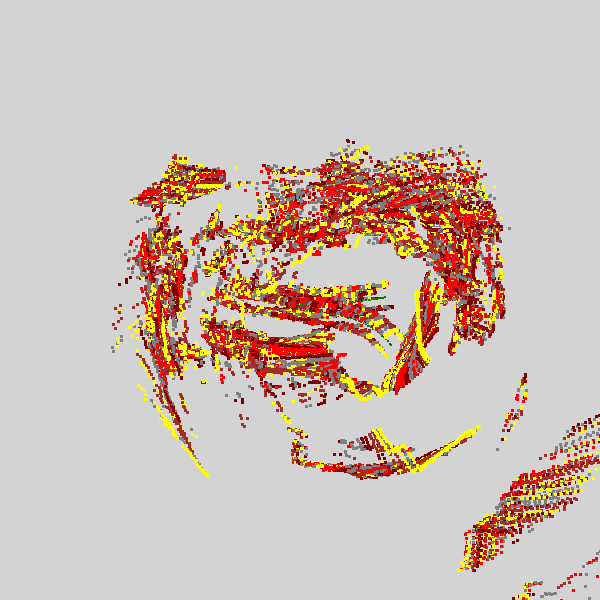
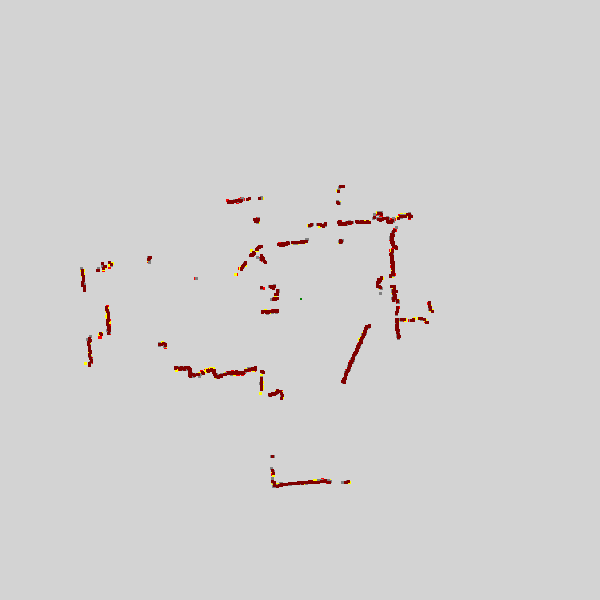
Motion error in Motion.py solved. New potentiometer for axle. Lidar_LD19 skip dist<30cm

diff --git a/Whegs.py b/Whegs.py
@@ -81,10 +81,10 @@ class Whegs:
                 self.scanner.scanner_reset()
                 #Logging Table View8
                 
-                with open("logging_tabulate.txt", "w") as logging:
+                with open("logging_tabulate.log", "w") as logging:
                     print(tabulate(logging_tabulate, headers="keys", tablefmt="github"), file = logging)
                     logging.flush()
-                sleep(1)
+                sleep(5)
             
             if self.last_action == "stop":
                 steer = 0
@@ -107,7 +107,7 @@ class Whegs:
             if steer == 0 and speed == 0:
                 motion_error = False
             
-            if abs(self.kompass.get_pitch()) > 40 or abs(self.kompass.get_roll()) > 40:
+            if abs(self.kompass.get_pitch()) > 30 or abs(self.kompass.get_roll()) > 30:
                 steer = 0
                 speed = 0
                 motion_error = True
@@ -122,11 +122,6 @@ class Whegs:
                 speed = 0
                 motion_error = True
                 print("CURRENT Error Stopping : " + str(current) + str("mA"))
-
-            if self.scanner.get_min_dist() < 60:
-                self.distance = "TO NARROW MOVE BACKWARTS !"
-            else:
-                self.distance = None
 
             #Store the Motor data for all 4 motors
             #self.motorDataLogger.store(current)
@@ -158,16 +153,16 @@ class Whegs:
             #x_summ += x_scan
             #y_summ += y_scan
             #pose_summ += pose_scan
-
+            
             front, left , right = self.bug.analyse(scan_data)
-            #steer, speed_korr = self.bug.modus(front, left, right)
+            steer, speed_korr = self.bug.modus(front, left, right)
             #steer, speed_korr = self.bug.modus_sinus(front, left, right, heading)
             print("Heading:" +str(heading))
-            #print("Left : " + str(self.bug.left) + "  Dist: " + str(self.bug.left_min))
-            #print("Front: " + str(self.bug.front)+ "  Dist: " + str(self.bug.front_min))
-            #print("Right: " + str(self.bug.right)+ "  Dist: " + str(self.bug.right_min))
+            print("Left : " + str(self.bug.left) + "  Dist: " + str(self.bug.left_min))
+            print("Front: " + str(self.bug.front)+ "  Dist: " + str(self.bug.front_min))
+            print("Right: " + str(self.bug.right)+ "  Dist: " + str(self.bug.right_min))
             #print("Current: " + str(current))
-            print("Steer: " + str(steer) + "  Speed_korr: " + str(speed))
+            print("Steer: " + str(steer) + "  Speed: " + str(speed))
             #print("Position: " +str(x) + " " + str(y) + " " + str(pose)) 
             #print("Position: " +str(x_scan) + " " + str(y_scan) + " " + str(pose_scan))
             #print("Summ: " +str(x_summ) + " " + str(y_summ) + " " + str(pose_summ))
@@ -188,14 +183,15 @@ class Whegs:
 
             #Logging with tabulate
             current_time = strftime("%H:%M:%S", localtime())
-            logging_tabulate.append(OrderedDict([("Time",current_time),("steer",steer), ("speed", speed), ("X",x),("Y",y), 
-                                                 ("Pose",pose), ("Axle-Pos",rear_axle_position), ("Current",current)]))
-
+            logging_tabulate.append(OrderedDict([("Time",current_time),
+                                                 ("Steer",steer), ("Speed", speed), 
+                                                 ("Front", front), ("Left", left), ("Right", right),
+                                                 ("X",x),("Y",y), ("Pose",pose), 
+                                                 ("Axle-Pos",rear_axle_position), ("Current",current)]))
 
             print (colored('*** Loop time = ' + str(round(time() - loop_time,2)), 'red', attrs=["bold"]))
             loop_time = time()
             sleep(0.05)
-            print()
-            #print('\033[6F\033[2k', end='')
 
+            #print('\033[9F\033[2k', end='')
             #os.system('clear')

diff --git a/Bug.py b/Bug.py
@@ -2,7 +2,7 @@
 
 class Bug():
     def __init__(self):
-        self.MIN_DIST = 150
+        self.MIN_DIST = 80
         self.front = "free"
         self.left  = "free"
         self.right = "free"
@@ -35,6 +35,7 @@ class Bug():
        
         for point in last_scan:
             pitch, heading, dist = point
+            
             #Straight +/-15° @ dist = 90 -> 50cm free-space
             if (350 < heading < 360) or (0 < heading < 10) :
                 if dist < self.MIN_DIST:
@@ -42,13 +43,13 @@ class Bug():
                     self.speed = self.LOW_SPEED
                     self.front_min = 0.1 ##min(self.front_min, dist)           
             #Left           
-            if  (310 < heading) and (heading < 350):
+            if  (270 < heading) and (heading < 315):
                 if dist < self.MIN_DIST:
                     self.left = "blocked"
                     self.speed = self.LOW_SPEED
                     self.left_min = min(self.left_min, dist)
             #Right
-            if (10 < heading) and (heading < 40):
+            if (45 < heading) and (heading < 90):
                 if dist < self.MIN_DIST:
                     self.right = "blocked"
                     self.speed = self.LOW_SPEED
@@ -88,7 +89,7 @@ class Bug():
         steer = 0
 
         if front == "free" and left == "blocked" and right == "blocked":
-            steer = (self.right_min - self.left_min) * 0.05
+            steer = 1           #(self.right_min - self.left_min) * 0.05
         elif front == "blocked" and left == "free" and right == "free":
             steer = 1
         elif front == "blocked"  and left == "blocked":
@@ -108,7 +109,7 @@ if __name__ == "__main__":
 
     bug = Bug()
 
-    scan_data = [[[0, -90.0, 100], [0, 0.0, 59], [0, 18.2, 59]]]
+    scan_data = [[0, -90.0, 100], [0, 0.0, 59], [0, 18.2, 59]]
     front, left, right = bug.analyse(scan_data)
     steer = bug.modus(front, left, right)
     print(bug.left)

diff --git a/Motion.py b/Motion.py
@@ -1,14 +1,13 @@
 #! python
 # -*- coding: utf-8 -*-
 # Program steuert Roboter Motion via 4xMotorController
-# Steer Links = +1 Rechts = -1
-# Speed Vor = +1 Retour = -1
+# Steer: Rechts = +1 Links =  -1
+# Speed: Vor =    +1 Retour = -1
+# rear_axle_position Left = 160 Mid = 0 Right = (-160)s
 
 from MotorController import *
 from time import *
 from termcolor import colored
-
-
 
 class Motion():
     def __init__(self):
@@ -53,9 +52,8 @@ class Motion():
             print("Error parsing speed Value")
 
         axle_differenz = rear_axle_setpoint - rear_axle_position
-        print("Axle-diff: " + str(axle_differenz))
 
-        P_VALUE = 250
+        P_VALUE = 200
 
         motorspeed_HL, direktion_HL = self.settings_HL
         motorspeed_HR, direktion_HR = self.settings_HR
@@ -66,6 +64,9 @@ class Motion():
         else:
             motorspeed_HL -= axle_differenz / P_VALUE
             motorspeed_HR += axle_differenz / P_VALUE
+
+        motorspeed_HL = max(min(5.0, motorspeed_HL), 0)
+        motorspeed_HR = max(min(5.0, motorspeed_HR), 0)
 
         self.settings_HL = motorspeed_HL, direktion_HL
         self.settings_HR = motorspeed_HR, direktion_HR
@@ -79,7 +80,7 @@ class Motion():
         speed, direction = settings
         speed = speed  * self.speed
         speed  = max(min(1.0, speed), -1)
-        #print("Motors-Values: ", speed, direction)
+            #print("Motors-Values: ", speed, direction)
         if self.speed < 0:
             direction = direction * (-1)
         motor.set_motor(speed, direction)

diff --git a/MotorController.py b/MotorController.py
@@ -103,21 +103,21 @@ if __name__ == "__main__":
     motor_HL = MotorController(0x1A)
     motor_HR = MotorController(0x1C)
 
-    for i in range(5):
+    for i in range(10):
         print("Counts VL: " + str(motor_VL.get_counts()))
         print("Counts VR: " + str(motor_VR.get_counts()))
         print("Counts HL: " + str(motor_HL.get_counts()))
         print("Counts HR: " + str(motor_HR.get_counts()))
-        sleep(1)
+        sleep(3)
 
     print("ATTENTION MOTOR IS WORKING... -2 Sec")
     #Go Robo go
-    motor_VL.set_motor(speed = 0.5, direction = -1)   
-    motor_VR.set_motor(speed = 0.5, direction = -1)   
-    motor_HL.set_motor(speed = 0.5, direction = -1)   
-    motor_HR.set_motor(speed = 0.5, direction = -1)
+    motor_VL.set_motor(speed = 0.5, direction = 1)   
+    motor_VR.set_motor(speed = 0.5, direction = 1)   
+    motor_HL.set_motor(speed = 0.5, direction = 1)   
+    motor_HR.set_motor(speed = 0.5, direction = 1)
 
-    sleep(5)
+    sleep(10)
 
     #Stopping @ speed = 0
     motor_VL.set_motor(speed = 0, direction = 1)

diff --git a/Lidar_LD19.py b/Lidar_LD19.py
@@ -87,7 +87,9 @@ class Lidar_LD19:
             dist = (int(data[8+i+2:8+i+4] + data[8+i:8+i+2],16))
             #confidence.append(int(data[8+i+4:8+i+6],16))
             angle = round((math.degrees(circle(angleStep*counter+start_angle)*math.pi/180.0)),1)
-            partial_scan.append([0, angle, (dist/10)])    #Scan_data [_heading, angle, dist] // heading not in use
+            #Skip all Obst. coming from Wheel interference
+            if dist > 300:
+                partial_scan.append([0, angle, (dist/10)])    #Scan_data [_heading, angle, dist] // heading not in use
             counter += 1
        
         return (partial_scan)
